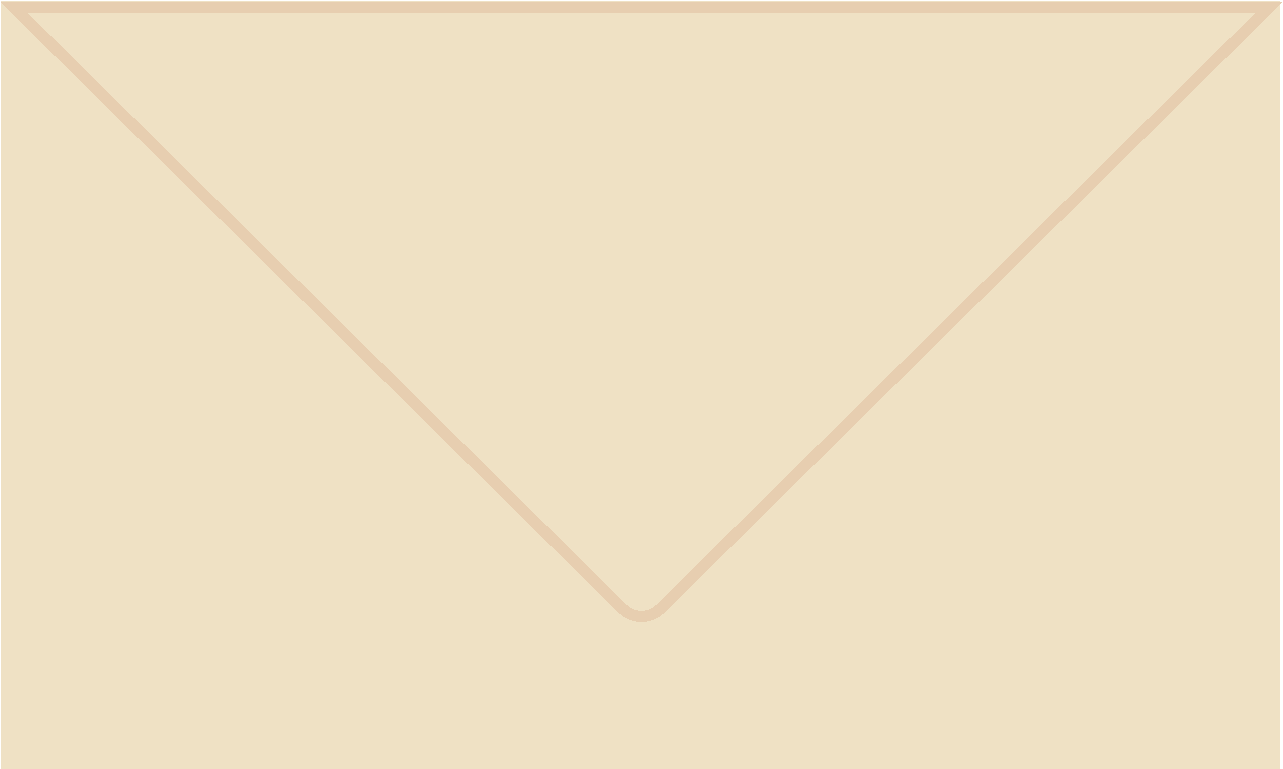
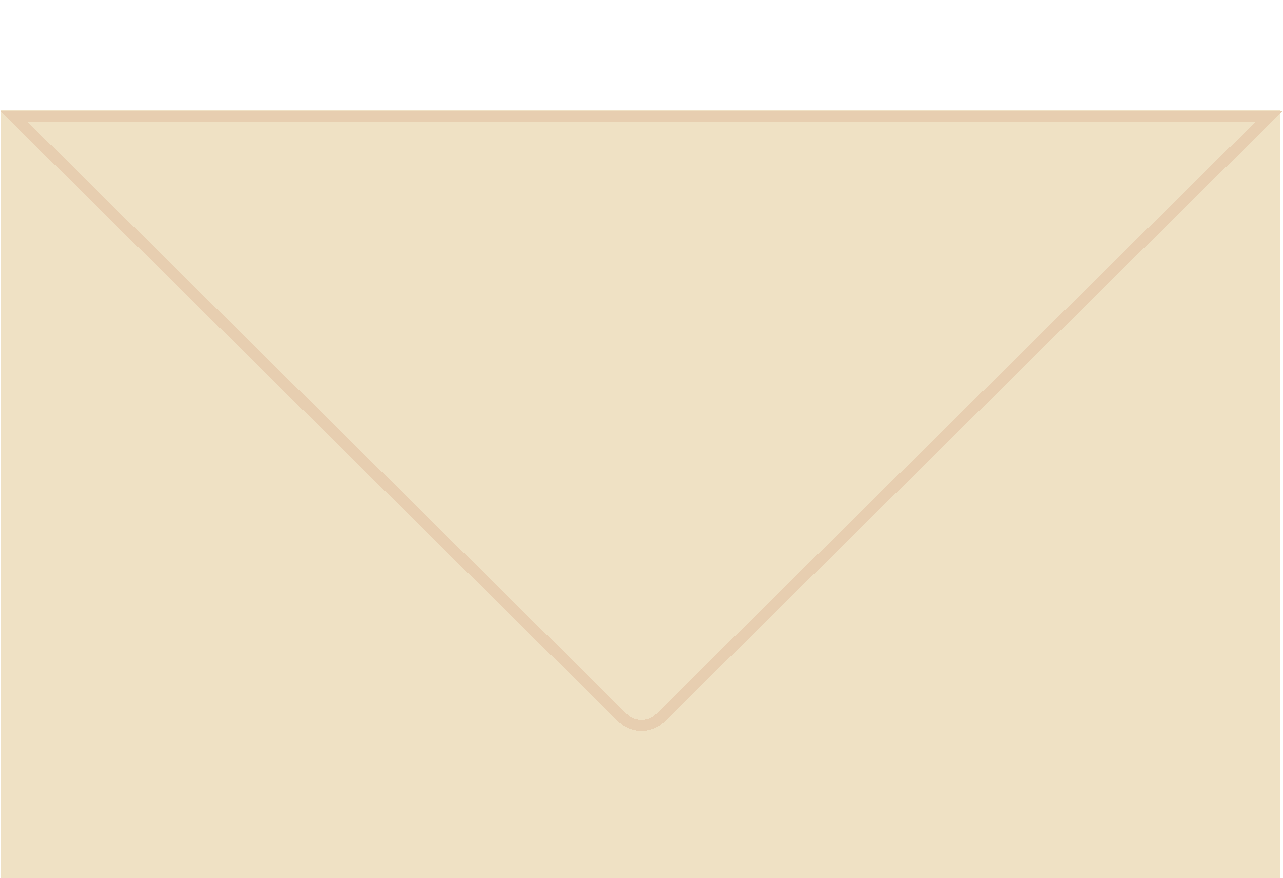
fixed sizing on about

Changed region(s): [[0.0, 0.0, 0.9977, 0.1248]]

diff --git a/style.css b/style.css
@@ -38,6 +38,7 @@ a:hover{
   left: -20%;
   width: 60vw;
   transform: rotate(-10deg);
+  z-index: 9999;
 }
 
 .LETTER_MENU {
@@ -205,7 +206,7 @@ section.ME{
   background-image: url("images/ME.png") ;
   background-color: #f3eee9;
   position: absolute;
-  top: 15%;  
+  top: 10%;  
   right: 3%;
   transform: rotate(3deg);
   display: inline-block;
@@ -223,12 +224,12 @@ section.ME{
 
 .selfie{
   background-image: url("images/selfie.png") ;
-  top: 100%;  
+  top: 87%;  
   right: 46%;
   position: absolute; 
   transform: rotate(-3deg);
-  width: 35%;
-  height: 35%;
+  width: 38%;
+  height: 38%;
   background-size: contain;
   background-repeat: no-repeat;
   background-position: center;
@@ -239,7 +240,7 @@ section.ME{
 section.ABOUT{
   background-image: url("images/ABOUT.png");
   position: absolute;
-  top: 100%;  
+  top: 85%;  
   right: 3%;
   border-radius: 0.25em;
   display: inline-block;
@@ -359,7 +360,6 @@ form {
   overflow: hidden;
   border: 3px solid #fff;
 }
-
 
 
 
@@ -552,8 +552,8 @@ body.PORTFOLIO{
   height: 3300px;
 }
 
-body.ABOUT{
-  height: 1800px;
+section.ABOUT{
+  height: 700px;
 }
 
 
@@ -611,7 +611,7 @@ html {
 .MENU_WRAPPER {
   position: fixed;
   top: 60%;
-  left: -10%;
+  left: -20%;
   width: 60vw;
   transform: rotate(-10deg);
   z-index: 9999;
@@ -636,7 +636,8 @@ section.ME{
 
 
 section.ABOUT{
-  top: 30%;  
+  top: 40%;  
+  right: 3%;
   margin: 1%;
   width: 55%;
   height: 61%;